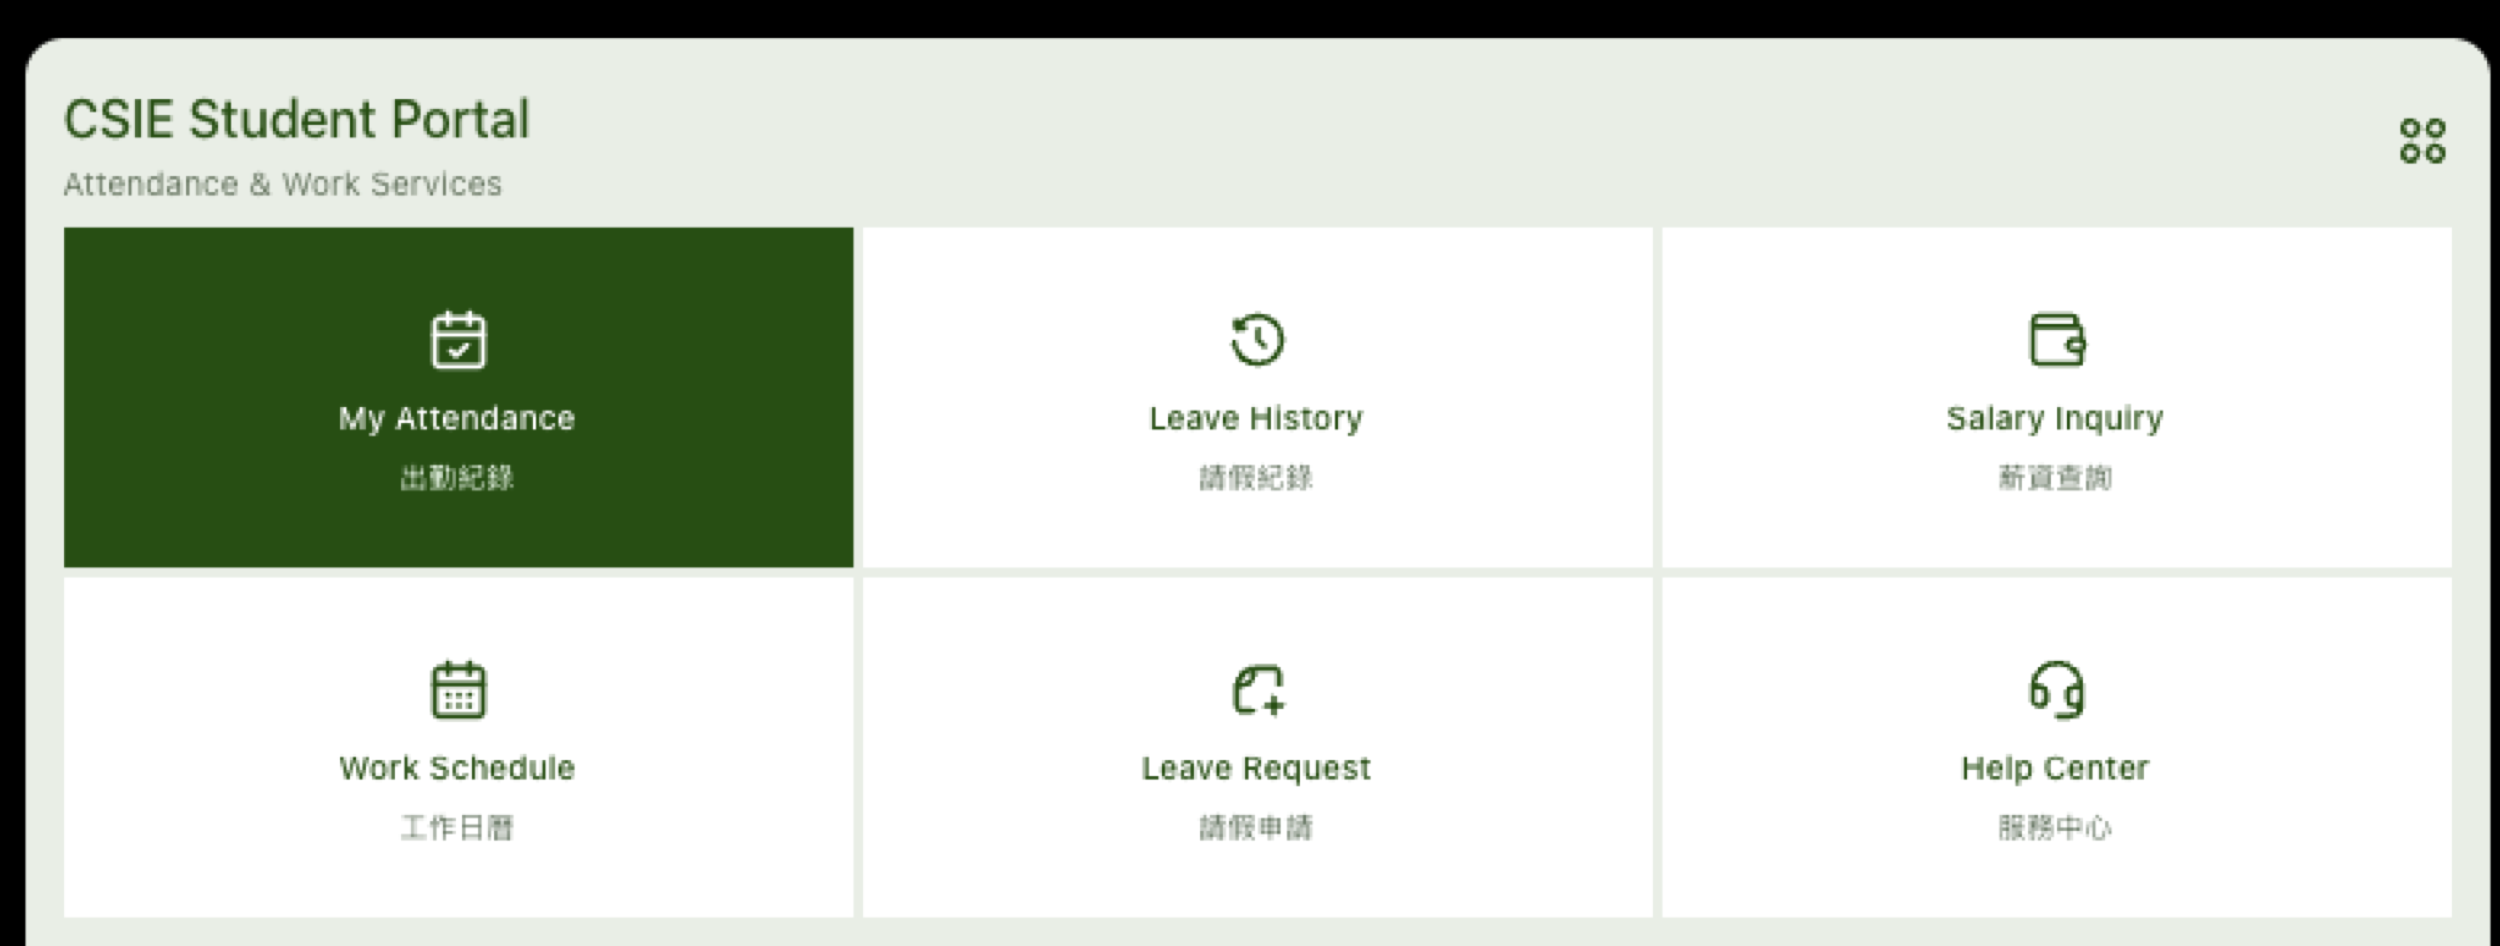
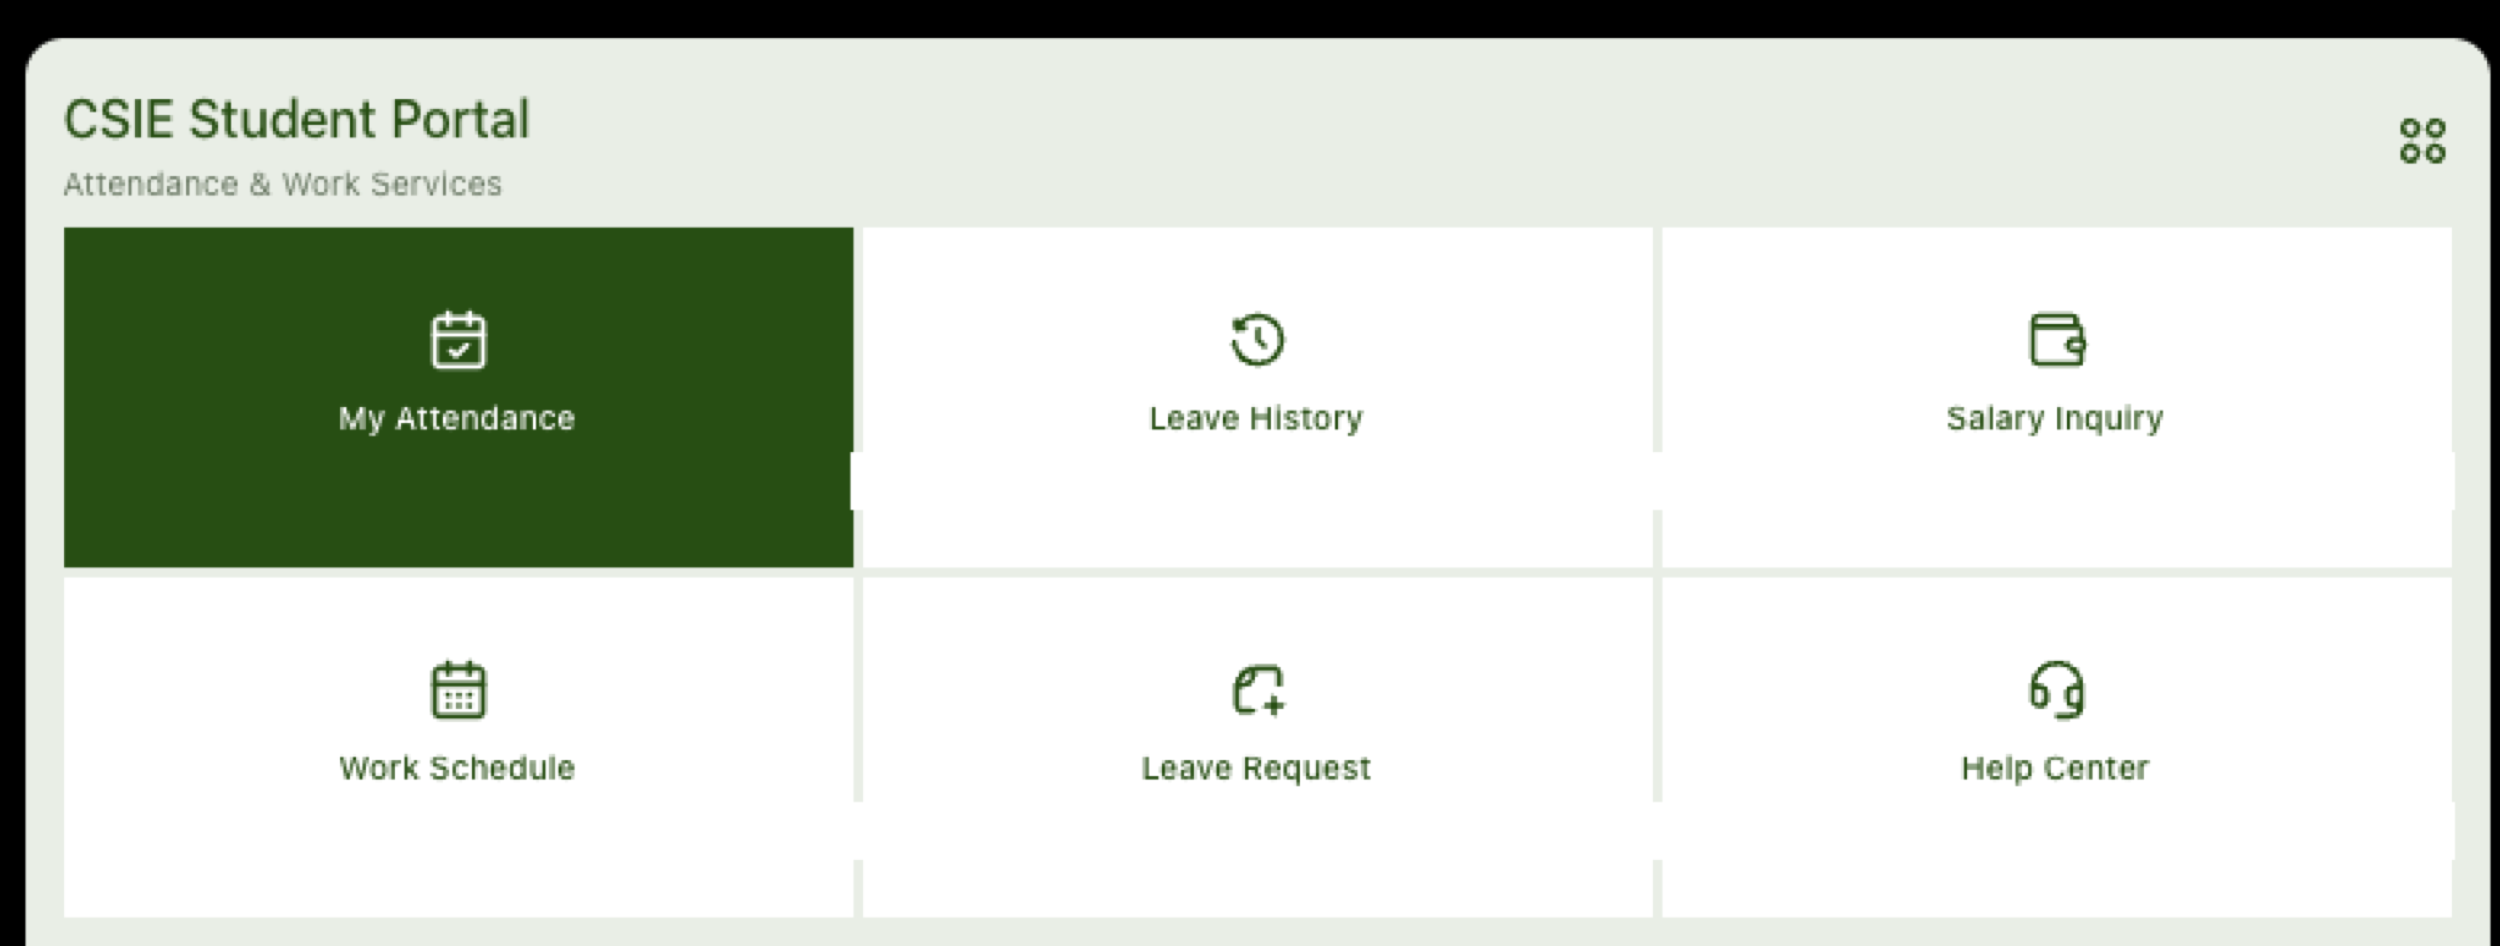
build 0.7.20

diff --git a/bot/line_ui.py b/bot/line_ui.py
@@ -357,7 +357,7 @@ def my_attendance_message(
                 _stat_row("Days absent", str(summary.get("absent_days", 0)), value_color=DEDUCTION_RED, margin="sm"),
                 _stat_row("Half-days", str(summary.get("half_days", 0)), margin="sm"),
                 _stat_row("Late arrivals", str(summary.get("late_days", 0)), margin="sm"),
-                _stat_row("Today's status", str(summary.get("today_status", "正常出勤")), margin="sm"),
+                _stat_row("Today's status", str(summary.get("today_status", "Present")), margin="sm"),
                 # Action button
                 _button(
                     "View Attendance History",
@@ -398,8 +398,8 @@ def leave_history_message(
 
     if records:
         for rec in records[:6]:
-            cat_zh = rec.get("type", "請假")
-            cat_en = _LEAVE_EN_LABELS.get(cat_zh, cat_zh)
+            cat_val = rec.get("type", "Leave")
+            cat_en = _LEAVE_EN_LABELS.get(cat_val, cat_val)
             rec_date = rec.get("date", "")
             status_text = rec.get("status") or "Recorded"
 
@@ -497,7 +497,7 @@ def leave_history_message(
 
 
 # ======================================================================
-# 4. Work Schedule (工作日曆)
+# 4. Work Schedule
 # ======================================================================
 
 def work_schedule_message(
@@ -530,7 +530,7 @@ def work_schedule_message(
                         "contents": [
                             {
                                 "type": "text",
-                                "text": f"{day.get('date_str')} ({day.get('weekday_zh')})",
+                                "text": f"{day.get('date_str')} ({day.get('weekday_en')})",
                                 "weight": "bold",
                                 "size": "sm",
                                 "color": DARK_GREEN,
@@ -648,14 +648,14 @@ def leave_request_menu_message(student_name: str | None = None) -> FlexMessage:
                         },
                     ],
                 },
-                _button("🤒 Sick Leave (病假)", "action=request_leave_type&category=病假", margin="sm"),
-                _button("📋 Personal Leave (事假)", "action=request_leave_type&category=事假", margin="sm"),
-                _button("🌸 Menstrual Leave (經痛)", "action=request_leave_type&category=經痛", margin="sm"),
-                _button("🏖 Annual Leave (特休)", "action=request_leave_type&category=特休", margin="sm"),
-                _button("⏱ Half-day Leave (半天)", "action=request_leave_type&category=半天", margin="sm"),
+                _button("🤒 Sick Leave", "action=request_leave_type&category=Sick Leave", margin="sm"),
+                _button("📋 Personal Leave", "action=request_leave_type&category=Personal Leave", margin="sm"),
+                _button("🌸 Menstrual Leave", "action=request_leave_type&category=Menstrual Leave", margin="sm"),
+                _button("🏖 Annual Leave", "action=request_leave_type&category=Annual Leave", margin="sm"),
+                _button("⏱ Half-day Leave", "action=request_leave_type&category=Half Day", margin="sm"),
                 {
                     "type": "text",
-                    "text": "Or type directly in chat: 請假 [YYYY-MM-DD] [類別] [原因]",
+                    "text": "Or type directly in chat: Leave [YYYY-MM-DD] [Type] [Reason]",
                     "size": "xxs",
                     "color": MUTED_TEXT,
                     "align": "center",
@@ -851,11 +851,11 @@ def welcome_message() -> FlexMessage:
                         },
                     ],
                 },
-                _stat_row("My Attendance", "/statusme", bold=False, margin="sm"),
-                _stat_row("Leave History", "請假紀錄", bold=False, margin="xs"),
+                _stat_row("My Attendance", "/attendance", bold=False, margin="sm"),
+                _stat_row("Leave History", "/leaves", bold=False, margin="xs"),
                 _stat_row("Salary Inquiry", "/salary", bold=False, margin="xs"),
-                _stat_row("Work Schedule", "工作日曆", bold=False, margin="xs"),
-                _stat_row("Leave Request", "請假申請", bold=False, margin="xs"),
+                _stat_row("Work Schedule", "/schedule", bold=False, margin="xs"),
+                _stat_row("Leave Request", "/leaverequest", bold=False, margin="xs"),
                 _stat_row("Help Center", "/ticket", bold=False, margin="xs"),
                 _button("Open Rich Menu", "action=richmenu_attendance", margin="lg"),
             ],
@@ -867,12 +867,12 @@ def welcome_message() -> FlexMessage:
         contents=FlexContainer.from_dict(bubble),
         quick_reply=QuickReply(
             items=[
-                QuickReplyItem(action=PostbackAction(label="出勤紀錄", data="action=richmenu_attendance", display_text="出勤紀錄")),
-                QuickReplyItem(action=PostbackAction(label="請假紀錄", data="action=richmenu_leave_history", display_text="請假紀錄")),
-                QuickReplyItem(action=PostbackAction(label="薪資查詢", data="action=richmenu_salary", display_text="薪資查詢")),
-                QuickReplyItem(action=PostbackAction(label="工作日曆", data="action=richmenu_schedule", display_text="工作日曆")),
-                QuickReplyItem(action=PostbackAction(label="請假申請", data="action=richmenu_leave_request", display_text="請假申請")),
-                QuickReplyItem(action=PostbackAction(label="服務中心", data="action=richmenu_help", display_text="服務中心")),
+                QuickReplyItem(action=PostbackAction(label="My Attendance", data="action=richmenu_attendance", display_text="My Attendance")),
+                QuickReplyItem(action=PostbackAction(label="Leave History", data="action=richmenu_leave_history", display_text="Leave History")),
+                QuickReplyItem(action=PostbackAction(label="Salary Inquiry", data="action=richmenu_salary", display_text="Salary Inquiry")),
+                QuickReplyItem(action=PostbackAction(label="Work Schedule", data="action=richmenu_schedule", display_text="Work Schedule")),
+                QuickReplyItem(action=PostbackAction(label="Leave Request", data="action=richmenu_leave_request", display_text="Leave Request")),
+                QuickReplyItem(action=PostbackAction(label="Help Center", data="action=richmenu_help", display_text="Help Center")),
             ]
         ),
     )

diff --git a/bot/rich_menu.py b/bot/rich_menu.py
@@ -24,7 +24,7 @@ from linebot.v3.messaging import (
 )
 
 RICH_MENU_NAME = "CSIE Student Portal"
-CHAT_BAR_TEXT = "Portal Menu · 選單"
+CHAT_BAR_TEXT = "Portal Menu"
 IMAGE_PATH = Path(__file__).resolve().parent.parent / "assets" / "rich_menu.png"
 
 
@@ -36,58 +36,58 @@ def build_rich_menu_request() -> RichMenuRequest:
         name=RICH_MENU_NAME,
         chat_bar_text=CHAT_BAR_TEXT,
         areas=[
-            # Row 1, Col 1: My Attendance (出勤紀錄)
+            # Row 1, Col 1: My Attendance
             RichMenuArea(
                 bounds=RichMenuBounds(x=0, y=0, width=833, height=530),
                 action=PostbackAction(
                     label="My Attendance",
                     data="action=richmenu_attendance",
-                    display_text="出勤紀錄",
+                    display_text="My Attendance",
                 ),
             ),
-            # Row 1, Col 2: Leave History (請假紀錄)
+            # Row 1, Col 2: Leave History
             RichMenuArea(
                 bounds=RichMenuBounds(x=833, y=0, width=834, height=530),
                 action=PostbackAction(
                     label="Leave History",
                     data="action=richmenu_leave_history",
-                    display_text="請假紀錄",
+                    display_text="Leave History",
                 ),
             ),
-            # Row 1, Col 3: Salary Inquiry (薪資查詢)
+            # Row 1, Col 3: Salary Inquiry
             RichMenuArea(
                 bounds=RichMenuBounds(x=1667, y=0, width=833, height=530),
                 action=PostbackAction(
                     label="Salary Inquiry",
                     data="action=richmenu_salary",
-                    display_text="薪資查詢",
+                    display_text="Salary Inquiry",
                 ),
             ),
-            # Row 2, Col 1: Work Schedule (工作日曆)
+            # Row 2, Col 1: Work Schedule
             RichMenuArea(
                 bounds=RichMenuBounds(x=0, y=530, width=833, height=416),
                 action=PostbackAction(
                     label="Work Schedule",
                     data="action=richmenu_schedule",
-                    display_text="工作日曆",
+                    display_text="Work Schedule",
                 ),
             ),
-            # Row 2, Col 2: Leave Request (請假申請)
+            # Row 2, Col 2: Leave Request
             RichMenuArea(
                 bounds=RichMenuBounds(x=833, y=530, width=834, height=416),
                 action=PostbackAction(
                     label="Leave Request",
                     data="action=richmenu_leave_request",
-                    display_text="請假申請",
+                    display_text="Leave Request",
                 ),
             ),
-            # Row 2, Col 3: Help Center (服務中心)
+            # Row 2, Col 3: Help Center
             RichMenuArea(
                 bounds=RichMenuBounds(x=1667, y=530, width=833, height=416),
                 action=PostbackAction(
                     label="Help Center",
                     data="action=richmenu_help",
-                    display_text="服務中心",
+                    display_text="Help Center",
                 ),
             ),
         ],

diff --git a/database/google_sheets.py b/database/google_sheets.py
@@ -1519,15 +1519,28 @@ def get_student_attendance_summary(
     else:
         attendance_pct = 100
 
+    status_translation = {
+        "出席": "Present",
+        "遲到": "Late",
+        "病假": "Sick Leave",
+        "事假": "Personal Leave",
+        "經痛": "Menstrual Leave",
+        "特休": "Annual Leave",
+        "半天": "Half Day",
+        "回菲律賓": "Abroad",
+        "待確認": "Pending Review",
+        "不坐公交車": "No Bus",
+    }
     today_record = get_attendance_record(student_id, today)
     if today_record:
         rec_type = today_record.get("type", "")
-        today_status = f"{rec_type} (已記錄)" if rec_type else "已記錄"
+        en_status = status_translation.get(rec_type, rec_type or "Present")
+        today_status = f"{en_status} (Recorded)"
     else:
         if is_workday(today):
-            today_status = "正常出勤 (排班日)"
+            today_status = "Present (Scheduled Workday)"
         else:
-            today_status = "休假 (休息日)"
+            today_status = "Off (Rest Day)"
 
     return {
         "scheduled_days": scheduled_days,
@@ -1585,13 +1598,12 @@ def get_work_calendar_schedule(
             print("WORK CALENDAR READ ERROR:", repr(error))
 
     schedule_list = []
-    zh_weekdays = ["週一", "週二", "週三", "週四", "週五", "週六", "週日"]
     for i in range(days):
         day = start + timedelta(days=i)
         if day in sheet_overrides:
             s_type, s_note = sheet_overrides[day]
             is_work = "work" in s_type.lower() or "上班" in s_type or "出勤" in s_type
-            display_type = s_type or ("Workday" if is_work else "Rest Day")
+            display_type = "Workday" if is_work else (s_type if "holiday" in s_type.lower() else "Rest Day")
             note = s_note or ("Scheduled workday" if is_work else "Rest day")
         else:
             is_work = is_workday(day)
@@ -1603,7 +1615,6 @@ def get_work_calendar_schedule(
             "date_str": day.strftime("%Y-%m-%d"),
             "formatted_date": day.strftime("%b %d"),
             "weekday_en": day.strftime("%a"),
-            "weekday_zh": zh_weekdays[day.weekday()],
             "is_workday": is_work,
             "type": display_type,
             "note": note,

diff --git a/tests/test_portal.py b/tests/test_portal.py
@@ -178,7 +178,7 @@ class TestFlexMessageBuilders(TestCase):
             "half_days": 0,
             "late_days": 0,
             "attendance_pct": 95,
-            "today_status": "出席 (正常出勤)",
+            "today_status": "Present (Scheduled Workday)",
         }
         msg = my_attendance_message(summary, month_label="October 2026")
         data = msg.contents.data
@@ -186,8 +186,8 @@ class TestFlexMessageBuilders(TestCase):
 
     def test_leave_history_message_design(self):
         records = [
-            {"type": "病假", "date": "2026-10-08", "status": "Recorded"},
-            {"type": "事假", "date": "2026-09-17", "status": "Recorded"},
+            {"type": "Sick Leave", "date": "2026-10-08", "status": "Recorded"},
+            {"type": "Personal Leave", "date": "2026-09-17", "status": "Recorded"},
         ]
         msg = leave_history_message(records, month_label="October 2026")
         data = msg.contents.data
@@ -195,8 +195,8 @@ class TestFlexMessageBuilders(TestCase):
 
     def test_work_schedule_message_design(self):
         days = [
-            {"date_str": "2026-10-14", "weekday_zh": "週三", "is_workday": True, "type": "Workday", "note": "8 hrs"},
-            {"date_str": "2026-10-15", "weekday_zh": "週四", "is_workday": True, "type": "Workday", "note": "8 hrs"},
+            {"date_str": "2026-10-14", "weekday_en": "Wed", "is_workday": True, "type": "Workday", "note": "8 hrs"},
+            {"date_str": "2026-10-15", "weekday_en": "Thu", "is_workday": True, "type": "Workday", "note": "8 hrs"},
         ]
         msg = work_schedule_message(days)
         data = msg.contents.data

diff --git a/bot/commands.py b/bot/commands.py
@@ -445,7 +445,9 @@ def handle_command(
             record = google_sheets.get_attendance_record(student_id, target_date)
             if record is None:
                 return f"No attendance record found for {target_date.isoformat()}."
-            return f"{target_date.isoformat()}: {record.get('type', '待確認')}"
+            raw_type = record.get("type", "Pending Review")
+            status_en = LEAVE_TYPE_LABELS.get(raw_type, raw_type)
+            return f"{target_date.isoformat()}: {status_en}"
         except ValueError:
             try:
                 target_month = date.fromisoformat(f"{args[0]}-01")
@@ -553,9 +555,11 @@ def handle_command(
             return "I couldn't withdraw the leave. Please contact an administrator."
         if deleted is None:
             return "No leave record found for that date."
+        raw_type = deleted.get("old_status", "Leave")
+        status_en = LEAVE_TYPE_LABELS.get(raw_type, raw_type)
         return (
             f"Your leave for {target_date.isoformat()} "
-            f"({deleted['old_status']}) was withdrawn."
+            f"({status_en}) was withdrawn."
         )
 
     if command == "ticket":

diff --git a/ui/leave_confirmation.py b/ui/leave_confirmation.py
@@ -69,7 +69,7 @@ def leave_confirmation_message(
         "Automatically classified. If anything is incorrect, request a correction "
         "from an administrator."
         if confirmed
-        else "Your absence notice was recorded as 待確認. Please contact an "
+        else "Your absence notice was recorded as Pending Review. Please contact an "
         "administrator to confirm the leave type."
     )
 
@@ -114,7 +114,7 @@ def leave_confirmation_message(
                     "contents": [
                         _detail("Student", student_name),
                         _detail("Date", leave_date),
-                        _detail("Leave category", f"{category} · {category_label}"),
+                        _detail("Leave category", category_label),
                         _detail("Record ID", record_id),
                     ],
                 },

diff --git a/app.py b/app.py
@@ -772,13 +772,13 @@ def handle_postback(event):
         return
 
     if action == "request_leave_type":
-        cat = data.get("category", ["請假"])[0]
+        cat = data.get("category", ["Leave"])[0]
         reply_to_line(
             event.reply_token,
             f"📝 Apply for {cat}:\n\n"
-            "Please send your leave details in this format:\n\n"
-            f"請假 YYYY-MM-DD {cat} <reason>\n\n"
-            f"Example: 請假 {_today_taipei().isoformat()} {cat} 身體不適\n\n"
+            "Please send your leave notice in this format:\n\n"
+            f"Leave YYYY-MM-DD {cat} <reason>\n\n"
+            f"Example: Leave {_today_taipei().isoformat()} {cat} Feeling unwell\n\n"
             "⚠ Note: Submission will be flagged for administrator review and does not automatically imply approval.",
         )
         return
